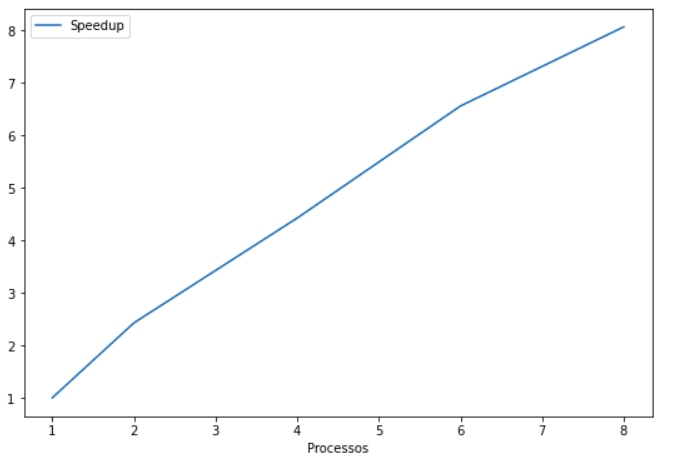
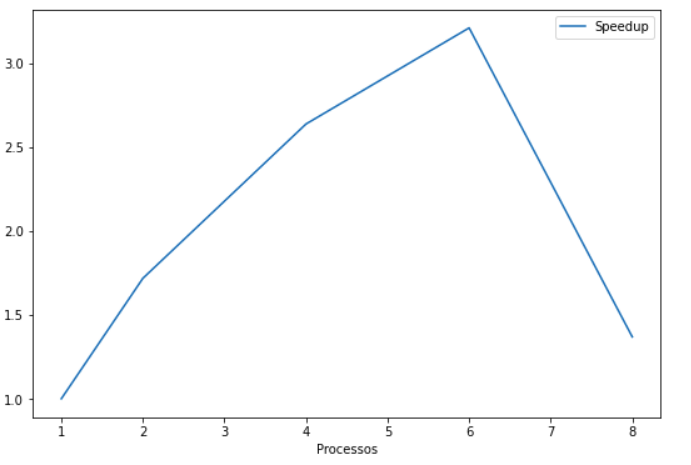
a12q01 corrigindo distribuição de tarefas

diff --git a/atividades/atividade12/questao01.cpp b/atividades/atividade12/questao01.cpp
@@ -1,44 +1,48 @@
 #include <bits/stdc++.h>
 #include <mpi.h>
 
-#define ROOT 0
-
 using namespace std;
 
 int main(int argc, char const *argv[])
 {
     int id, np;
-    const int N = atoi(argv[3]);
-    vector<double> arr1(N,atof(argv[1])),
-                   arr2(N,atof(argv[2]));
-    double res = 0;
+    const int N = atoi(argv[3]), ROOT = 0;
+    vector<double> arr1(N,atof(argv[1])), arr2(N,atof(argv[2]));
 
     MPI_Init(nullptr, nullptr);
     MPI_Comm_rank(MPI_COMM_WORLD, &id);
     MPI_Comm_size(MPI_COMM_WORLD, &np);
 
-    double begin_time, acc;
-    int size, gap;
+    int size, range, i;
+    double res, ans, begin;
+    vector<double> buf1, buf2;
 
     if (id == ROOT) {
-        begin_time = MPI_Wtime();
         size = N;
+        begin = MPI_Wtime();
     }
 
     MPI_Bcast(&size, 1, MPI_INT, ROOT, MPI_COMM_WORLD);
-    
-    gap = size/np;
-    acc = 0;
 
-    for (int i=id*gap; i < id*gap+gap; i++) {
-        acc += arr1[i]*arr2[i];
-    }
+    range = size/np;
+    buf1.resize(range);
+    buf2.resize(range);
 
-    MPI_Reduce(&acc, &res, 1, MPI_DOUBLE, MPI_SUM, ROOT, MPI_COMM_WORLD);    
+    MPI_Scatter(&arr1[0], range, MPI_DOUBLE, &buf1[0], range, MPI_DOUBLE, ROOT, MPI_COMM_WORLD);
+    MPI_Scatter(&arr2[0], range, MPI_DOUBLE, &buf2[0], range, MPI_DOUBLE, ROOT, MPI_COMM_WORLD);
+
+    res = 0.0;
+
+    for (i=0; i<range; i++) res += buf1[i]*buf2[i];
+
+    ans = 0.0;
+
+    MPI_Reduce(&res, &ans, 1, MPI_DOUBLE, MPI_SUM, ROOT, MPI_COMM_WORLD);
 
     if (id == ROOT) {
-        cout << np << "," << MPI_Wtime() - begin_time << endl;
-    }
+        //cout << ans << endl;
+        cout << MPI_Wtime()-begin << endl;
+    } 
 
     MPI_Finalize();
 
